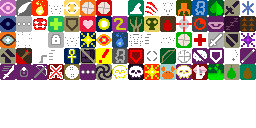
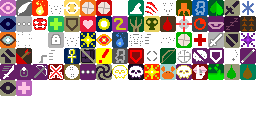
Fall Entrance And Exit Extra Effects

Changed region(s): [[0.0, 0.625, 0.125, 0.75]]

diff --git a/core/src/main/java/com/soulspixel/soulspixeldungeon/actors/Char.java b/core/src/main/java/com/soulspixel/soulspixeldungeon/actors/Char.java
@@ -36,6 +36,7 @@ import com.soulspixel.soulspixeldungeon.actors.buffs.AllyBuff;
 import com.soulspixel.soulspixeldungeon.actors.buffs.Amok;
 import com.soulspixel.soulspixeldungeon.actors.buffs.ArcaneArmor;
 import com.soulspixel.soulspixeldungeon.actors.buffs.AscensionChallenge;
+import com.soulspixel.soulspixeldungeon.actors.buffs.AtEase;
 import com.soulspixel.soulspixeldungeon.actors.buffs.Barkskin;
 import com.soulspixel.soulspixeldungeon.actors.buffs.Berserk;
 import com.soulspixel.soulspixeldungeon.actors.buffs.Bleeding;
@@ -77,6 +78,7 @@ import com.soulspixel.soulspixeldungeon.actors.buffs.Stamina;
 import com.soulspixel.soulspixeldungeon.actors.buffs.Sticky;
 import com.soulspixel.soulspixeldungeon.actors.buffs.Stickyfloor;
 import com.soulspixel.soulspixeldungeon.actors.buffs.Terror;
+import com.soulspixel.soulspixeldungeon.actors.buffs.Uneasy;
 import com.soulspixel.soulspixeldungeon.actors.buffs.Vertigo;
 import com.soulspixel.soulspixeldungeon.actors.buffs.Vulnerable;
 import com.soulspixel.soulspixeldungeon.actors.buffs.Weakness;
@@ -250,6 +252,11 @@ public abstract class Char extends Actor {
 		}
 		//discover rooms or trigger room effects
 		getCurrentRoomEffect();
+
+		//buffs
+		if(buff(AtEase.class) != null && buff(Uneasy.class) != null){
+			buff(AtEase.class).detach();
+		}
 		return false;
 	}
 
@@ -646,8 +653,10 @@ public abstract class Char extends Actor {
 
 		float acuRoll = Random.Float( acuStat );
 		if (attacker.buff(Bless.class) != null) acuRoll *= 1.25f;
+		if (attacker.buff(AtEase.class) != null) acuRoll *= 1.5f;
 		if (attacker.buff(  Hex.class) != null) acuRoll *= 0.8f;
 		if (attacker.buff( Daze.class) != null) acuRoll *= 0.5f;
+		if (attacker.buff( Uneasy.class) != null) acuRoll *= 0.9f;
 		for (ChampionEnemy buff : attacker.buffs(ChampionEnemy.class)){
 			acuRoll *= buff.evasionAndAccuracyFactor();
 		}
@@ -655,8 +664,10 @@ public abstract class Char extends Actor {
 		
 		float defRoll = Random.Float( defStat );
 		if (defender.buff(Bless.class) != null) defRoll *= 1.25f;
+		if (defender.buff(AtEase.class) != null) defRoll *= 1.5f;
 		if (defender.buff(  Hex.class) != null) defRoll *= 0.8f;
 		if (defender.buff( Daze.class) != null) defRoll *= 0.5f;
+		if (defender.buff( Uneasy.class) != null) defRoll *= 0.9f;
 		for (ChampionEnemy buff : defender.buffs(ChampionEnemy.class)){
 			defRoll *= buff.evasionAndAccuracyFactor();
 		}

diff --git a/core/src/main/java/com/soulspixel/soulspixeldungeon/actors/buffs/AtEase.java b/core/src/main/java/com/soulspixel/soulspixeldungeon/actors/buffs/AtEase.java
@@ -1,0 +1,56 @@
+/*
+ *
+ * Pixel Dungeon
+ * Copyright (C) 2012-2015 Oleg Dolya
+ *
+ * Shattered Pixel Dungeon
+ * Copyright (C) 2014-2024 Evan Debenham
+ *
+ * Souls Pixel Dungeon
+ * Copyright (C) 2024 Bartolomeo Cold
+ *
+ * This program is free software: you can redistribute it and/or modify
+ * it under the terms of the GNU General Public License as published by
+ * the Free Software Foundation, either version 3 of the License, or
+ * (at your option) any later version.
+ *
+ * This program is distributed in the hope that it will be useful,
+ * but WITHOUT ANY WARRANTY; without even the implied warranty of
+ * MERCHANTABILITY or FITNESS FOR A PARTICULAR PURPOSE.  See the
+ * GNU General Public License for more details.
+ *
+ * You should have received a copy of the GNU General Public License
+ * along with this program.  If not, see <http://www.gnu.org/licenses/>
+ */
+
+package com.soulspixel.soulspixeldungeon.actors.buffs;
+
+import com.soulspixel.soulspixeldungeon.Dungeon;
+import com.soulspixel.soulspixeldungeon.scenes.GameScene;
+import com.soulspixel.soulspixeldungeon.ui.BuffIndicator;
+
+public class AtEase extends FlavourBuff {
+
+	public static final float DURATION = 100f;
+
+	{
+		type = buffType.POSITIVE;
+	}
+	
+	@Override
+	public int icon() {
+		return BuffIndicator.ATEASE;
+	}
+
+	@Override
+	public float iconFadePercent() {
+		return Math.max(0, (DURATION - visualcooldown()) / DURATION);
+	}
+
+	@Override
+	public void detach() {
+		super.detach();
+		Dungeon.observe();
+		GameScene.updateFog();
+	}
+}

diff --git a/core/src/main/java/com/soulspixel/soulspixeldungeon/actors/buffs/Uneasy.java b/core/src/main/java/com/soulspixel/soulspixeldungeon/actors/buffs/Uneasy.java
@@ -1,0 +1,56 @@
+/*
+ *
+ * Pixel Dungeon
+ * Copyright (C) 2012-2015 Oleg Dolya
+ *
+ * Shattered Pixel Dungeon
+ * Copyright (C) 2014-2024 Evan Debenham
+ *
+ * Souls Pixel Dungeon
+ * Copyright (C) 2024 Bartolomeo Cold
+ *
+ * This program is free software: you can redistribute it and/or modify
+ * it under the terms of the GNU General Public License as published by
+ * the Free Software Foundation, either version 3 of the License, or
+ * (at your option) any later version.
+ *
+ * This program is distributed in the hope that it will be useful,
+ * but WITHOUT ANY WARRANTY; without even the implied warranty of
+ * MERCHANTABILITY or FITNESS FOR A PARTICULAR PURPOSE.  See the
+ * GNU General Public License for more details.
+ *
+ * You should have received a copy of the GNU General Public License
+ * along with this program.  If not, see <http://www.gnu.org/licenses/>
+ */
+
+package com.soulspixel.soulspixeldungeon.actors.buffs;
+
+import com.soulspixel.soulspixeldungeon.Dungeon;
+import com.soulspixel.soulspixeldungeon.scenes.GameScene;
+import com.soulspixel.soulspixeldungeon.ui.BuffIndicator;
+
+public class Uneasy extends FlavourBuff {
+
+	public static final float DURATION = 10f;
+
+	{
+		type = buffType.NEGATIVE;
+	}
+	
+	@Override
+	public int icon() {
+		return BuffIndicator.UNEASY;
+	}
+
+	@Override
+	public float iconFadePercent() {
+		return Math.max(0, (DURATION - visualcooldown()) / DURATION);
+	}
+
+	@Override
+	public void detach() {
+		super.detach();
+		Dungeon.observe();
+		GameScene.updateFog();
+	}
+}

diff --git a/core/src/main/java/com/soulspixel/soulspixeldungeon/levels/rooms/moods/EntranceEffect.java b/core/src/main/java/com/soulspixel/soulspixeldungeon/levels/rooms/moods/EntranceEffect.java
@@ -30,6 +30,7 @@ import com.soulspixel.soulspixeldungeon.Dungeon;
 import com.soulspixel.soulspixeldungeon.SPDSettings;
 import com.soulspixel.soulspixeldungeon.SoulsPixelDungeon;
 import com.soulspixel.soulspixeldungeon.actors.Char;
+import com.soulspixel.soulspixeldungeon.actors.buffs.AtEase;
 import com.soulspixel.soulspixeldungeon.actors.buffs.Buff;
 import com.soulspixel.soulspixeldungeon.actors.buffs.Cripple;
 import com.soulspixel.soulspixeldungeon.actors.buffs.Light;
@@ -70,13 +71,9 @@ public class EntranceEffect {
                 plantArmor(ch);
                 break;
             case -8:
-                placeholder(ch);
+                atEase(ch);
                 break;
         }
-    }
-
-    private static void placeholder(Char ch){
-        //TODO:
     }
 
     private static void shiftingVision(){
@@ -131,6 +128,10 @@ public class EntranceEffect {
         if (armor != null) {
             Buff.affect( ch, Earthroot.Armor.class ).level(ch.HP);
         }
+    }
+
+    private static void atEase(Char ch){
+        Buff.affect(ch, AtEase.class, AtEase.DURATION);
     }
 
 }

diff --git a/core/src/main/java/com/soulspixel/soulspixeldungeon/levels/rooms/moods/LingeringMood.java b/core/src/main/java/com/soulspixel/soulspixeldungeon/levels/rooms/moods/LingeringMood.java
@@ -33,6 +33,7 @@ import com.soulspixel.soulspixeldungeon.actors.buffs.Invisibility;
 import com.soulspixel.soulspixeldungeon.actors.buffs.Sick;
 import com.soulspixel.soulspixeldungeon.actors.buffs.Silenced;
 import com.soulspixel.soulspixeldungeon.actors.buffs.Stickyfloor;
+import com.soulspixel.soulspixeldungeon.actors.buffs.Uneasy;
 import com.soulspixel.soulspixeldungeon.actors.buffs.Weakness;
 import com.soulspixel.soulspixeldungeon.levels.RegularLevel;
 
@@ -62,7 +63,7 @@ public class LingeringMood {
                 stickyfloor(ch);
                 break;
             case 8:
-                fallAscndMood(ch);
+                fallAscendMood(ch);
                 break;
         }
     }
@@ -123,8 +124,12 @@ public class LingeringMood {
         }
     }
 
-    public static void fallAscndMood(Char ch){
-        //TODO:
+    public static void fallAscendMood(Char ch){
+        if(ch.buff( Uneasy.class ) == null){
+            Buff.affect(ch, Uneasy.class, 1f);
+        } else {
+            Buff.prolong(ch, Uneasy.class, 1f);
+        }
     }
 
 }

diff --git a/core/src/main/java/com/soulspixel/soulspixeldungeon/levels/falllevels/SewerFallLevel.java b/core/src/main/java/com/soulspixel/soulspixeldungeon/levels/falllevels/SewerFallLevel.java
@@ -1,0 +1,31 @@
+/*
+ *
+ * Pixel Dungeon
+ * Copyright (C) 2012-2015 Oleg Dolya
+ *
+ * Shattered Pixel Dungeon
+ * Copyright (C) 2014-2024 Evan Debenham
+ *
+ * Souls Pixel Dungeon
+ * Copyright (C) 2024 Bartolomeo Cold
+ *
+ * This program is free software: you can redistribute it and/or modify
+ * it under the terms of the GNU General Public License as published by
+ * the Free Software Foundation, either version 3 of the License, or
+ * (at your option) any later version.
+ *
+ * This program is distributed in the hope that it will be useful,
+ * but WITHOUT ANY WARRANTY; without even the implied warranty of
+ * MERCHANTABILITY or FITNESS FOR A PARTICULAR PURPOSE.  See the
+ * GNU General Public License for more details.
+ *
+ * You should have received a copy of the GNU General Public License
+ * along with this program.  If not, see <http://www.gnu.org/licenses/>
+ */
+
+package com.soulspixel.soulspixeldungeon.levels.falllevels;
+
+import com.soulspixel.soulspixeldungeon.levels.SewerLevel;
+
+public class SewerFallLevel extends SewerLevel {
+}

diff --git a/core/src/main/java/com/soulspixel/soulspixeldungeon/scenes/InterlevelScene.java b/core/src/main/java/com/soulspixel/soulspixeldungeon/scenes/InterlevelScene.java
@@ -143,6 +143,8 @@ public class InterlevelScene extends PixelScene {
 				loadingDepth = GamesInProgress.check(GamesInProgress.curSlot).depth;
 				scrollSpeed = 5;
 				break;
+			case DESCEND_FALL_BRANCH:
+			case SECRET_ENTRANCE:
 			case DESCEND:
 				if (Dungeon.hero == null){
 					loadingDepth = 1;
@@ -160,6 +162,8 @@ public class InterlevelScene extends PixelScene {
 				loadingDepth = Dungeon.depth+1;
 				scrollSpeed = 50;
 				break;
+			case ASCEND_FALL_BRANCH:
+			case SECRET_EXIT:
 			case ASCEND:
 				fadeTime = SLOW_FADE;
 				if (curTransition != null)  loadingDepth = curTransition.destDepth;
@@ -194,7 +198,6 @@ public class InterlevelScene extends PixelScene {
         }
 
 		if(mode == Mode.SECRET_ENTRANCE || mode == Mode.SECRET_EXIT || mode == Mode.ASCEND_FALL_BRANCH || mode == Mode.DESCEND_FALL_BRANCH){
-			fadeTime = SLOW_FADE;
 			loadingAsset = Assets.Interfaces.SHADOW;
 		}
 		

diff --git a/core/src/main/java/com/soulspixel/soulspixeldungeon/Dungeon.java b/core/src/main/java/com/soulspixel/soulspixeldungeon/Dungeon.java
@@ -74,6 +74,7 @@ import com.soulspixel.soulspixeldungeon.levels.RegularLevel;
 import com.soulspixel.soulspixeldungeon.levels.SewerBossLevel;
 import com.soulspixel.soulspixeldungeon.levels.SewerFrogLevel;
 import com.soulspixel.soulspixeldungeon.levels.SewerLevel;
+import com.soulspixel.soulspixeldungeon.levels.falllevels.SewerFallLevel;
 import com.soulspixel.soulspixeldungeon.levels.features.LevelTransition;
 import com.soulspixel.soulspixeldungeon.levels.rooms.secret.SecretRoom;
 import com.soulspixel.soulspixeldungeon.levels.rooms.special.SpecialRoom;
@@ -449,6 +450,8 @@ public class Dungeon {
 		} else if (branch == 1) {
 			switch (depth) {
 				case 1:
+					level = new SewerFallLevel();
+					break;
 				case 2:
 				case 3:
 				case 4:

diff --git a/core/src/main/java/com/soulspixel/soulspixeldungeon/ui/BuffIndicator.java b/core/src/main/java/com/soulspixel/soulspixeldungeon/ui/BuffIndicator.java
@@ -133,6 +133,8 @@ public class BuffIndicator extends Component {
 	public static final int STICKY_FLOOR = 77;
 	public static final int BUFOTOXIN    = 78;
 	public static final int STICKY    	 = 79;
+	public static final int UNEASY    	 = 80;
+	public static final int ATEASE    	 = 81;
 
 
 	public static final int SIZE_SMALL  = 7;
